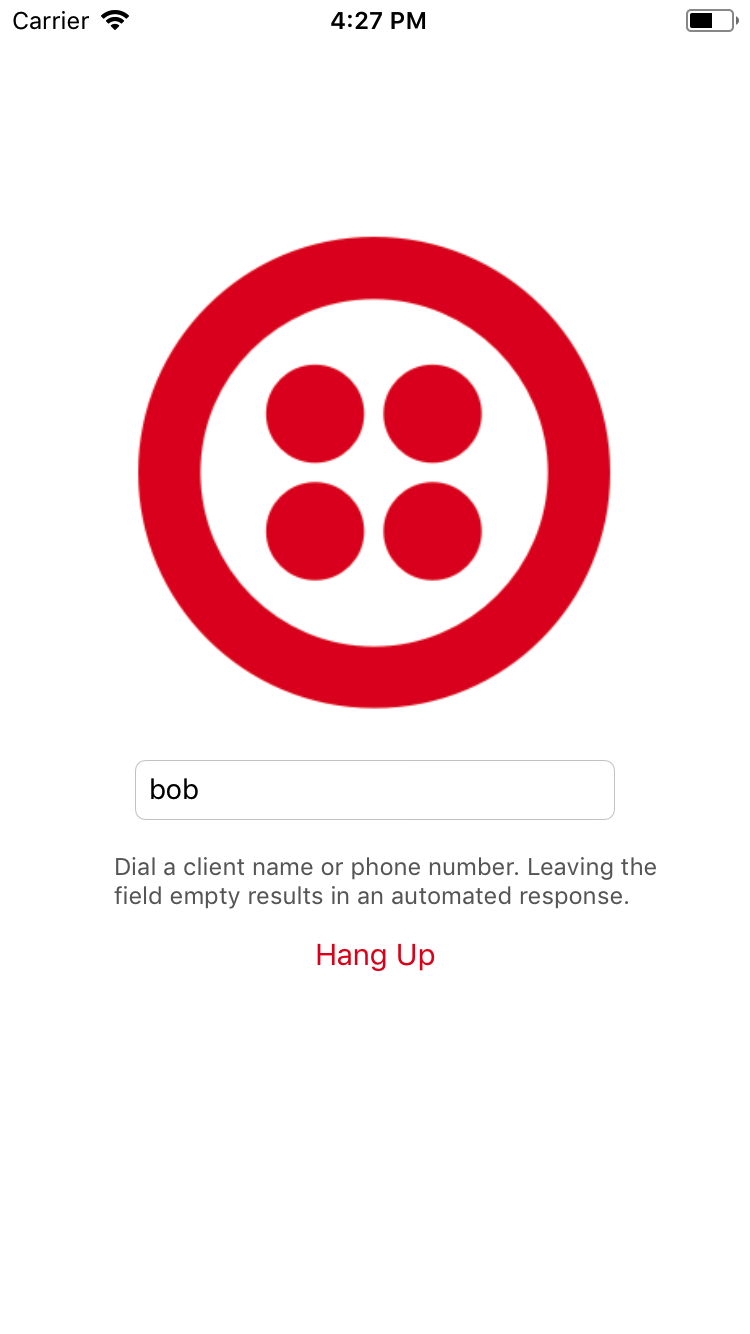
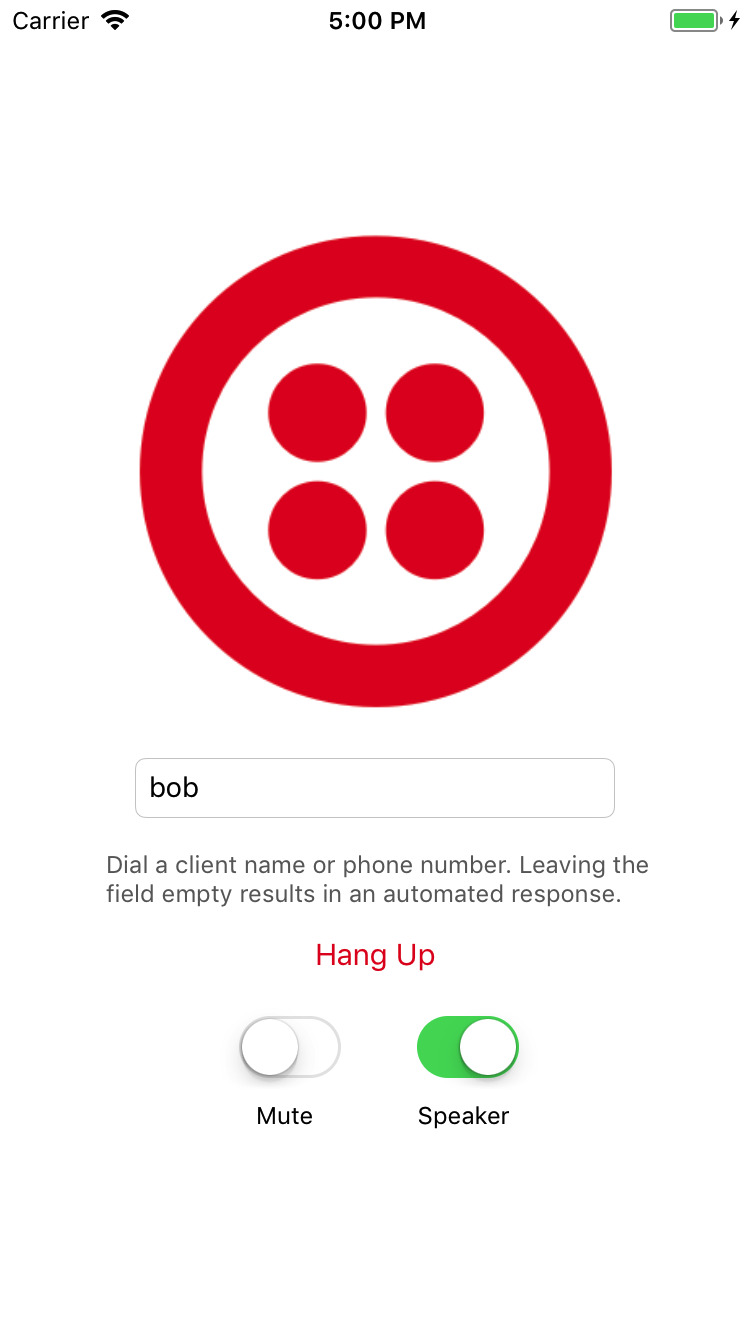
Add support for mute and speaker (#104)
* Update README and fix compiler error

* Add mute and speaker toggle switches

* Missing parameter

* Update screenshots

* Add border to README images

* Revert README changes

* Address comments

* Add comments to explain audio output override

* Update screenshots

diff --git a/SwiftVoiceQuickstart/ViewController.swift b/SwiftVoiceQuickstart/ViewController.swift
@@ -19,6 +19,9 @@ class ViewController: UIViewController, PKPushRegistryDelegate, TVONotificationD
     @IBOutlet weak var placeCallButton: UIButton!
     @IBOutlet weak var iconView: UIImageView!
     @IBOutlet weak var outgoingValue: UITextField!
+    @IBOutlet weak var callControlView: UIView!
+    @IBOutlet weak var muteSwitch: UISwitch!
+    @IBOutlet weak var speakerSwitch: UISwitch!
     
     var deviceTokenString:String?
 
@@ -48,7 +51,7 @@ class ViewController: UIViewController, PKPushRegistryDelegate, TVONotificationD
     override func viewDidLoad() {
         super.viewDidLoad()
 
-        toggleUIState(isEnabled: true)
+        toggleUIState(isEnabled: true, showCallControl: false)
         outgoingValue.delegate = self
     }
 
@@ -64,14 +67,21 @@ class ViewController: UIViewController, PKPushRegistryDelegate, TVONotificationD
         return try? String.init(contentsOf: accessTokenURL, encoding: .utf8)
     }
     
-    func toggleUIState(isEnabled: Bool) {
+    func toggleUIState(isEnabled: Bool, showCallControl: Bool) {
         placeCallButton.isEnabled = isEnabled
+        if (showCallControl) {
+            callControlView.isHidden = false
+            muteSwitch.isOn = false
+            speakerSwitch.isOn = true
+        } else {
+            callControlView.isHidden = true
+        }
     }
 
     @IBAction func placeCall(_ sender: UIButton) {
         if (self.call != nil) {
             self.call?.disconnect()
-            self.toggleUIState(isEnabled: false)
+            self.toggleUIState(isEnabled: false, showCallControl: false)
         } else {
             guard let accessToken = fetchAccessToken() else {
                 return
@@ -79,14 +89,26 @@ class ViewController: UIViewController, PKPushRegistryDelegate, TVONotificationD
             
             playOutgoingRingtone(completion: { [weak self] in
                 if let strongSelf = self {
-                    strongSelf.call = TwilioVoice.call(accessToken, params: [twimlParamTo : outgoingValue.text!], delegate: strongSelf)
-                    strongSelf.toggleUIState(isEnabled: false)
+                    strongSelf.call = TwilioVoice.call(accessToken, params: [twimlParamTo : strongSelf.outgoingValue.text!], delegate: strongSelf)
+                    strongSelf.toggleUIState(isEnabled: false, showCallControl: false)
                     strongSelf.startSpin()
                 }
             })
         }
     }
 
+    @IBAction func muteSwitchToggled(_ sender: UISwitch) {
+        if let call = call {
+            call.isMuted = sender.isOn
+        } else {
+            NSLog("No active call to be muted")
+        }
+    }
+    
+    @IBAction func speakerSwitchToggled(_ sender: UISwitch) {
+        toggleAudioRoute(toSpeaker: sender.isOn)
+    }
+    
     // MARK: UITextFieldDelegate
     func textFieldShouldReturn(_ textField: UITextField) -> Bool {
         outgoingValue.resignFirstResponder()
@@ -108,8 +130,8 @@ class ViewController: UIViewController, PKPushRegistryDelegate, TVONotificationD
         let deviceToken = (credentials.token as NSData).description
 
         TwilioVoice.register(withAccessToken: accessToken, deviceToken: deviceToken) { (error) in
-            if (error != nil) {
-                NSLog("An error occurred while registering: \(error?.localizedDescription)")
+            if let error = error {
+                NSLog("An error occurred while registering: \(error.localizedDescription)")
             }
             else {
                 NSLog("Successfully registered for VoIP push notifications.")
@@ -131,8 +153,8 @@ class ViewController: UIViewController, PKPushRegistryDelegate, TVONotificationD
         }
         
         TwilioVoice.unregister(withAccessToken: accessToken, deviceToken: deviceToken) { (error) in
-            if (error != nil) {
-                NSLog("An error occurred while unregistering: \(error?.localizedDescription)")
+            if let error = error {
+                NSLog("An error occurred while unregistering: \(error.localizedDescription)")
             }
             else {
                 NSLog("Successfully unregistered from VoIP push notifications.")
@@ -189,7 +211,7 @@ class ViewController: UIViewController, PKPushRegistryDelegate, TVONotificationD
                 strongSelf.callInvite = nil
                 
                 strongSelf.incomingAlertController = nil
-                strongSelf.toggleUIState(isEnabled: true)
+                strongSelf.toggleUIState(isEnabled: true, showCallControl: false)
             }
         }
         incomingAlertController.addAction(rejectAction)
@@ -201,7 +223,7 @@ class ViewController: UIViewController, PKPushRegistryDelegate, TVONotificationD
                 strongSelf.callInvite = nil
                 strongSelf.stopIncomingRingtone()
                 strongSelf.incomingAlertController = nil
-                strongSelf.toggleUIState(isEnabled: true)
+                strongSelf.toggleUIState(isEnabled: true, showCallControl: false)
             }
         }
         incomingAlertController.addAction(ignoreAction)
@@ -218,7 +240,7 @@ class ViewController: UIViewController, PKPushRegistryDelegate, TVONotificationD
         }
         incomingAlertController.addAction(acceptAction)
         
-        toggleUIState(isEnabled: false)
+        toggleUIState(isEnabled: false, showCallControl: false)
         present(incomingAlertController, animated: true, completion: nil)
         self.incomingAlertController = incomingAlertController
 
@@ -246,7 +268,7 @@ class ViewController: UIViewController, PKPushRegistryDelegate, TVONotificationD
             dismiss(animated: true) { [weak self] in
                 if let strongSelf = self {
                     strongSelf.incomingAlertController = nil
-                    strongSelf.toggleUIState(isEnabled: true)
+                    strongSelf.toggleUIState(isEnabled: true, showCallControl: false)
                 }
             }
         }
@@ -269,9 +291,9 @@ class ViewController: UIViewController, PKPushRegistryDelegate, TVONotificationD
         
         self.placeCallButton.setTitle("Hang Up", for: .normal)
         
-        toggleUIState(isEnabled: true)
+        toggleUIState(isEnabled: true, showCallControl: true)
         stopSpin()
-        routeAudioToSpeaker()
+        toggleAudioRoute(toSpeaker: true)
     }
     
     func call(_ call: TVOCall, didFailToConnectWithError error: Error) {
@@ -294,16 +316,21 @@ class ViewController: UIViewController, PKPushRegistryDelegate, TVONotificationD
         self.call = nil
         
         playDisconnectSound()
-        toggleUIState(isEnabled: true)
+        toggleUIState(isEnabled: true, showCallControl: false)
         stopSpin()
         self.placeCallButton.setTitle("Call", for: .normal)
     }
     
     
     // MARK: AVAudioSession
-    func routeAudioToSpeaker() {
+    func toggleAudioRoute(toSpeaker: Bool) {
+        // The mode set by the Voice SDK is "VoiceChat" so the default audio route is the built-in receiver. Use port override to switch the route.
         do {
-            try AVAudioSession.sharedInstance().overrideOutputAudioPort(.speaker)
+            if (toSpeaker) {
+                try AVAudioSession.sharedInstance().overrideOutputAudioPort(.speaker)
+            } else {
+                try AVAudioSession.sharedInstance().overrideOutputAudioPort(.none)
+            }
         } catch {
             NSLog(error.localizedDescription)
         }

diff --git a/SwiftVoiceCallKitQuickstart/ViewController.swift b/SwiftVoiceCallKitQuickstart/ViewController.swift
@@ -20,7 +20,10 @@ class ViewController: UIViewController, PKPushRegistryDelegate, TVONotificationD
     @IBOutlet weak var placeCallButton: UIButton!
     @IBOutlet weak var iconView: UIImageView!
     @IBOutlet weak var outgoingValue: UITextField!
-
+    @IBOutlet weak var callControlView: UIView!
+    @IBOutlet weak var muteSwitch: UISwitch!
+    @IBOutlet weak var speakerSwitch: UISwitch!
+    
     var deviceTokenString:String?
 
     var voipRegistry:PKPushRegistry
@@ -67,7 +70,7 @@ class ViewController: UIViewController, PKPushRegistryDelegate, TVONotificationD
     override func viewDidLoad() {
         super.viewDidLoad()
 
-        toggleUIState(isEnabled: true)
+        toggleUIState(isEnabled: true, showCallControl: false)
         outgoingValue.delegate = self
     }
 
@@ -83,14 +86,21 @@ class ViewController: UIViewController, PKPushRegistryDelegate, TVONotificationD
         return try? String.init(contentsOf: accessTokenURL, encoding: .utf8)
     }
     
-    func toggleUIState(isEnabled: Bool) {
+    func toggleUIState(isEnabled: Bool, showCallControl: Bool) {
         placeCallButton.isEnabled = isEnabled
+        if (showCallControl) {
+            callControlView.isHidden = false
+            muteSwitch.isOn = false
+            speakerSwitch.isOn = true
+        } else {
+            callControlView.isHidden = true
+        }
     }
 
     @IBAction func placeCall(_ sender: UIButton) {
         if (self.call != nil && self.call?.state == .connected) {
             self.call?.disconnect()
-            self.toggleUIState(isEnabled: false)
+            self.toggleUIState(isEnabled: false, showCallControl: false)
         } else {
             let uuid = UUID()
             let handle = "Voice Bot"
@@ -99,6 +109,17 @@ class ViewController: UIViewController, PKPushRegistryDelegate, TVONotificationD
         }
     }
     
+    @IBAction func muteSwitchToggled(_ sender: UISwitch) {
+        if let call = call {
+            call.isMuted = sender.isOn
+        } else {
+            NSLog("No active call to be muted")
+        }
+    }
+    
+    @IBAction func speakerSwitchToggled(_ sender: UISwitch) {
+        toggleAudioRoute(toSpeaker: sender.isOn)
+    }
     
     // MARK: UITextFieldDelegate
     func textFieldShouldReturn(_ textField: UITextField) -> Bool {
@@ -122,8 +143,8 @@ class ViewController: UIViewController, PKPushRegistryDelegate, TVONotificationD
         let deviceToken = (credentials.token as NSData).description
 
         TwilioVoice.register(withAccessToken: accessToken, deviceToken: deviceToken) { (error) in
-            if (error != nil) {
-                NSLog("An error occurred while registering: \(error?.localizedDescription)")
+            if let error = error {
+                NSLog("An error occurred while registering: \(error.localizedDescription)")
             }
             else {
                 NSLog("Successfully registered for VoIP push notifications.")
@@ -145,8 +166,8 @@ class ViewController: UIViewController, PKPushRegistryDelegate, TVONotificationD
         }
         
         TwilioVoice.unregister(withAccessToken: accessToken, deviceToken: deviceToken) { (error) in
-            if (error != nil) {
-                NSLog("An error occurred while unregistering: \(error?.localizedDescription)")
+            if let error = error {
+                NSLog("An error occurred while unregistering: \(error.localizedDescription)")
             }
             else {
                 NSLog("Successfully unregistered from VoIP push notifications.")
@@ -215,9 +236,9 @@ class ViewController: UIViewController, PKPushRegistryDelegate, TVONotificationD
         
         self.placeCallButton.setTitle("Hang Up", for: .normal)
         
-        toggleUIState(isEnabled: true)
+        toggleUIState(isEnabled: true, showCallControl: true)
         stopSpin()
-        routeAudioToSpeaker()
+        toggleAudioRoute(toSpeaker: true)
     }
     
     func call(_ call: TVOCall, didFailToConnectWithError error: Error) {
@@ -247,15 +268,20 @@ class ViewController: UIViewController, PKPushRegistryDelegate, TVONotificationD
         self.callKitCompletionCallback = nil
         
         stopSpin()
-        toggleUIState(isEnabled: true)
+        toggleUIState(isEnabled: true, showCallControl: false)
         self.placeCallButton.setTitle("Call", for: .normal)
     }
     
     
     // MARK: AVAudioSession
-    func routeAudioToSpeaker() {
+    func toggleAudioRoute(toSpeaker: Bool) {
+        // The mode set by the Voice SDK is "VoiceChat" so the default audio route is the built-in receiver. Use port override to switch the route.
         do {
-            try AVAudioSession.sharedInstance().setCategory(AVAudioSessionCategoryPlayAndRecord, with: .defaultToSpeaker)
+            if (toSpeaker) {
+                try AVAudioSession.sharedInstance().overrideOutputAudioPort(.speaker)
+            } else {
+                try AVAudioSession.sharedInstance().overrideOutputAudioPort(.none)
+            }
         } catch {
             NSLog(error.localizedDescription)
         }
@@ -325,7 +351,7 @@ class ViewController: UIViewController, PKPushRegistryDelegate, TVONotificationD
     func provider(_ provider: CXProvider, perform action: CXStartCallAction) {
         NSLog("provider:performStartCallAction:")
         
-        toggleUIState(isEnabled: false)
+        toggleUIState(isEnabled: false, showCallControl: false)
         startSpin()
 
         TwilioVoice.configureAudioSession()
@@ -459,7 +485,7 @@ class ViewController: UIViewController, PKPushRegistryDelegate, TVONotificationD
             return
         }
         
-        call = TwilioVoice.call(accessToken, params: [twimlParamTo : outgoingValue.text!], uuid:uuid, delegate: self)
+        call = TwilioVoice.call(accessToken, params: [twimlParamTo : self.outgoingValue.text!], uuid:uuid, delegate: self)
         self.callKitCompletionCallback = completionHandler
     }
     
